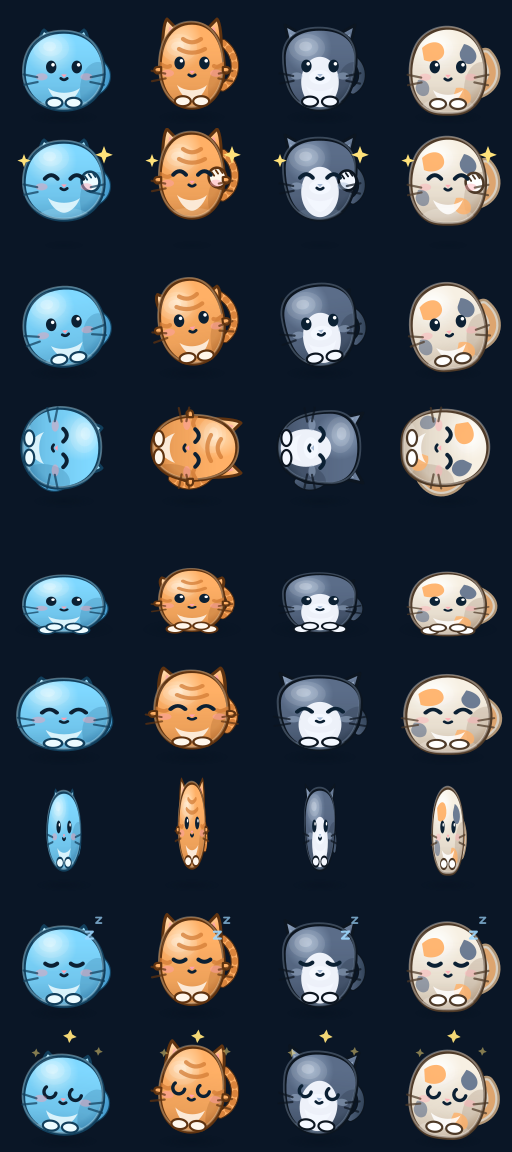
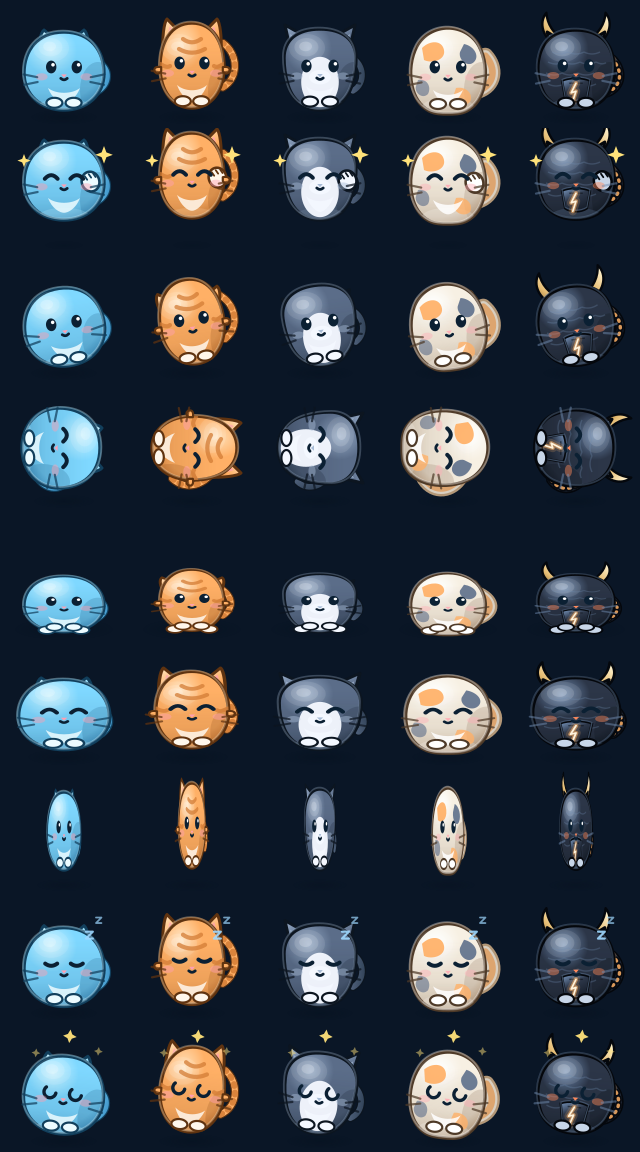
feat: 新增第五个内置角色「焰甲」机甲龙猫
- 深钢外壳 + 熔岩橙能量纹，金色渐变龙角、金属胸甲、竖瞳发光眼、
  机械节段尾巴（末端能量灯），鳞甲花纹做材质暗示
- 渲染层新增 armor 花纹、segmented 尾巴、glow 眼睛三种通用分支，
  第三方插件同样可复用这套机甲部件
- plugins/index.json 版本对齐 1.2.0 并注册焰甲
- 校验 debug/release 均 23/23，浏览器 8/8

diff --git a/README.md b/README.md
@@ -5,7 +5,7 @@
 ![内置角色与动作](docs/preview.png)
 
 - 透明无边框置顶窗，拖动移动、位置记忆
-- **4 只内置猫，四种体型**（不是同一只换色）：小卓圆胖短耳短尾 / 小橘瘦高大耳长尾带环纹 / 小煤肩宽方脸细长尾 / 三花蓬松折耳粗尾巴，右键切换
+- **5 只内置角色，五种体型**（不是同一只换色）：小卓圆胖短耳短尾 / 小橘瘦高大耳长尾带环纹 / 小煤肩宽方脸细长尾 / 三花蓬松折耳粗尾巴 / **焰甲机甲龙猫**（龙角、胸甲、熔岩能量纹、机械节段尾巴），右键切换
 - **立体绘制**：径向受光 + 底部环境遮蔽 + 左上高光 + 底部反光 + 轮廓边缘光，落地投影随跳跃高度收缩变淡
 - **互动**：单击随机动作（翻滚、跳跃、蠕动、爬行、挥手）、双击转圈圈、连点 4 下头晕、发呆自己玩、2 分钟不理它就睡觉、拎起来会挣扎
 - 托盘菜单：显示/隐藏、打开插件目录、退出
